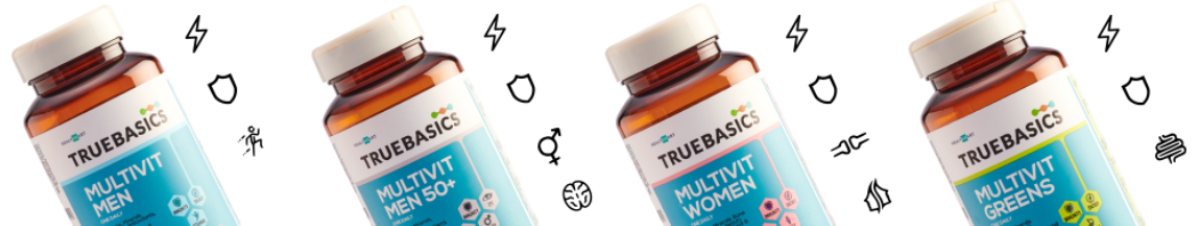
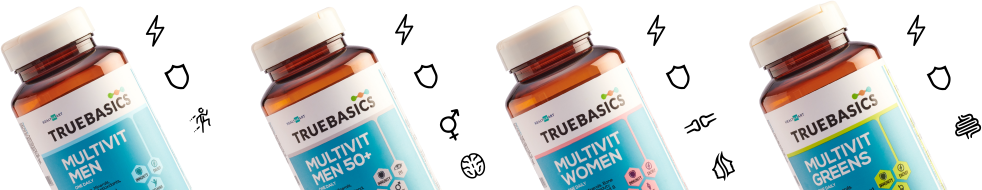
final feedback

diff --git a/best-multivitamins/css/style.css b/best-multivitamins/css/style.css
@@ -21,7 +21,7 @@ p{font-size: 20px;line-height: 26px;margin:0px;}
 /******************************* Common CSS *******************************/
 .headingSec{margin-bottom: 25px;}
 .headingSec h2{margin-bottom: 15px;}
-.ctaBtn{padding: 10px 28px;border-radius: 50px;color: #000;font-weight: bold;font-size: 20px;margin-top: 25px;display: inline-block;transition: 0.3s all ease-in-out;}
+.ctaBtn{background:#ff7300;padding: 10px 28px;border-radius: 50px;color: #000;font-weight: bold;font-size: 20px;margin-top: 25px;display: inline-block;transition: 0.3s all ease-in-out;}
 .pointersList{list-style: none;padding: 0px;margin:20px 0px;}
 .pointersList li{position: relative;padding-left: 25px;}
 .pointersList li{margin-bottom: 8px;}
@@ -66,36 +66,38 @@ button:focus{outline: none;}
 
 
 /******************************* First Section *******************************/
-.firstSection{background:#38e0ff;padding: 150px 0px 0px;position: relative;}
+.firstSection{background:#38e0ff;padding: 120px 0px 0px;position: relative;}
 .firstSection h2 span{font-family: "Nexa-Bold"}
 .tagLine{margin-bottom: 50px;position: relative;margin-top: 20px;}
 .tagLine:before{content: '';position: absolute;height: 1px;width: 60%;background:#000;bottom: -25px;left: 0;}
 .bottombgfirst{position: absolute;bottom: 100px;left:0; }
 .topbgfirst{position: absolute;top: 100px;right:0;}
-.bottomImg{margin-top: 80px;}
+.bottomImg{margin-top: 50px;}
 
 /******************************* Second Section *******************************/
-.secondSection{background:#53e3f5;position: relative;padding: 75px 0px;}
-.secondSection .ctaBtn{background:#fff;border:3px solid #fff;}
-.secondSection .ctaBtn:hover{background:#8bd3e6;text-decoration: none;color:#000;}
+.secondSection{background:#fff;position: relative;padding: 75px 0px;}
+.secondSection .ctaBtn{background:#ff7300;border:3px solid #ff7300;}
+.secondSection .ctaBtn:hover{background:#fff;text-decoration: none;color:#ff7300;}
 .slate2{position: absolute;bottom: 12%;right: 10%;}
 
 /******************************* Third Section *******************************/
 .thirdSection{background:#f4a6d7;position: relative;padding: 75px 0px;}
-.thirdSection .ctaBtn{background:#fff;border: 3px solid #fff;}
-.thirdSection .ctaBtn:hover{background:#f4a6d7;border: 3px solid #fff;color: #000;text-decoration: none;}
+.thirdSection .ctaBtn{background:#ff7300;border: 3px solid #ff7300;}
+.thirdSection .ctaBtn:hover{background:#fff;color: #ff7300;text-decoration: none;}
 .slate3{position: absolute;top: 3%;left: 4%;}
+.thirdSection .productList li:nth-child(3){width: 10%;}
 
 /******************************* Fourth Section *******************************/
 .fourthSection{background:#c1c5c7;position: relative;padding: 75px 0px;}
-.fourthSection .ctaBtn{background:#fff;border:3px solid #fff;}
-.fourthSection .ctaBtn:hover{background:#c1c6c8;text-decoration: none;color:#000;}
+.fourthSection .ctaBtn{background:#ff7300;border:3px solid #ff7300;}
+.fourthSection .ctaBtn:hover{background:#fff;text-decoration: none;color:#ff7300;}
 .slate4{position: absolute;top: 5%;right: 3%;}
+.fourthSection .productList li:nth-child(3){width: 10%;}
 
 /******************************* Fifth Section *******************************/
 .fifthSection{background:#c4d600;position: relative;padding: 75px 0px;}
-.fifthSection .ctaBtn{background:#fff;border: 3px solid #fff;}
-.fifthSection .ctaBtn:hover{background:#c4d600;border: 3px solid #fff;color: #000;text-decoration: none;}
+.fifthSection .ctaBtn{background:#ff7300;border: 3px solid #ff7300;}
+.fifthSection .ctaBtn:hover{background:#fff;color: #ff7300;text-decoration: none;}
 .slate5{position: absolute;bottom: 10%;left: 3%;}
 
 /******************************* Footer Section *******************************/
@@ -112,10 +114,14 @@ footer p{margin:0px;}
 }
 @media all and (max-width: 1440px) {
 	h1{font-size: 36px;line-height: 42px;color: #000;margin-top: 0px;font-weight:900;}
-  	h2{font-size: 28px;line-height: 32px;color: #000;}
-  	h3{font-size: 20px;line-height: 22px;color: #000;}
-  	p{font-size: 18px;line-height: 22px;margin:0px;}
-  	.ctaBtn{padding: 8px 24px;font-size: 18px;margin-top: 20px;}
+	h2{font-size: 28px;line-height: 32px;color: #000;}
+	h3{font-size: 20px;line-height: 22px;color: #000;}
+	p{font-size: 18px;line-height: 22px;margin:0px;}
+	.ctaBtn{padding: 8px 24px;font-size: 18px;margin-top: 20px;}
+  .firstSection{padding-top: 90px;}
+  .secImg{width: 70%;}
+  .secondSection, .thirdSection, .fourthSection, .fifthSection{padding: 40px 0px;}
+  .bottomImg{margin-top: 30px;}
 }
 @media all and (max-width: 1360px) {
 }
@@ -130,8 +136,9 @@ footer p{margin:0px;}
 @media all and (max-width: 769px) {
   .prodImg{width: 100%;}
 	.firstSection img{margin-bottom: 30px;}
+  .secImg{width: 100%;}
 	.searchBox{display: none;}
-  .productList li {width: 23%;}
+  .productList li, .fourthSection .productList li, .thirdSection .productList li {width: 23%;}
 	h1{font-size: 32px;line-height: 38px;color: #000;margin-top: 0px;font-weight:900;}
 	h2{font-size: 24px;line-height: 30px;color: #000;}
   	h3{font-size: 18px;line-height: 24px;color: #000;}

diff --git a/best-multivitamins-in-india/css/style.css b/best-multivitamins-in-india/css/style.css
@@ -25,11 +25,11 @@ p{font-size: 20px;line-height: 26px;margin:0px;}
 /******************************* Common CSS *******************************/
 .headingSec{margin-bottom: 25px;}
 .headingSec h2{margin-bottom: 15px;}
-.ctaBtn{padding: 10px 28px;border-radius: 50px;color: #000;font-weight: bold;font-size: 20px;margin-top: 25px;display: inline-block;}
+.ctaBtn{background:#ff7300;padding: 10px 28px;border-radius: 50px;color: #000;font-weight: bold;font-size: 20px;margin-top: 25px;display: inline-block;}
 .pointersList{list-style: none;padding: 0px;margin:20px 0px;}
-.pointersList li{position: relative;padding-left: 20px;}
+.pointersList li{position: relative;padding-left: 25px;}
 .pointersList li{margin-bottom: 8px;}
-.pointersList li:before{content: '';display: block;width: 6px;height: 6px;border-radius:50%;background: #515151;position: absolute;left: 0;top: 40%;transform: translateY(-50%);}
+.pointersList li:before{content: '';display: block;width: 15px;height: 1px;background: #515151;position: absolute;left: 0;top: 40%;transform: translateY(-50%);}
 .pointersList li:first-child{padding-left: 0px;}
 .pointersList li:first-child:before{display: none;}
 .cost{margin-top: 25px;position: relative;}
@@ -71,14 +71,14 @@ button:focus{outline: none;}
 
 
 /******************************* First Section *******************************/
-.firstSection{background:#38e0ff;padding: 150px 0px 0px;position: relative;}
+.firstSection{background:#38e0ff;padding: 120px 0px 0px;position: relative;}
 .firstSection h2{font-size: 34px;line-height: 40px;}
 .firstSection h2 span{font-family: "Nexa-Bold";}
 .tagLine{margin-bottom: 50px;position: relative;margin-top: 20px;}
 .tagLine:before{content: '';position: absolute;height: 1px;width: 60%;background:#000;bottom: -25px;left: 0;}
 .bottombgfirst{position: absolute;bottom: 100px;left:0; }
 .topbgfirst{position: absolute;top: 100px;right:0;}
-.bottomImg{margin-top: 80px;}
+.bottomImg{margin-top: 50px;}
 
 /******************************* Second Section *******************************/
 .secondSection{background:#fff;position: relative;padding: 75px 0px;}
@@ -148,13 +148,18 @@ footer p{margin:0px;}
 @media all and (max-width: 1440px) {
 	h1{font-size: 48px;line-height: 54px;}
   h2{font-size: 36px;line-height: 40px;}
-  h3{font-size: 28px;line-height: 32px;}
-  h4{font-size: 26px;line-height: 30px;}
+  h3{font-size: 26px;line-height: 32px;}
+  h4{font-size: 24px;line-height: 30px;}
   h5{font-size: 22px;line-height: 26px;}
   h6{font-size: 20px;line-height: 24px;}
   p{line-height: 24px;}
   .ctaBtn{padding: 8px 24px;font-size: 18px;margin-top: 20px;}
   .firstSection h2{font-size: 28px;line-height: 32px;}
+  .secImg{width: 70%;}
+  .fifthSection p{font-size: 13px;}
+  .firstSection{padding-top: 90px;}
+  .secondSection, .thirdSection, .fourthSection{padding: 40px 0px;}
+  .bottomImg{margin-top: 30px;}
 }
 @media all and (max-width: 1360px) {
 }
@@ -168,6 +173,7 @@ footer p{margin:0px;}
 }
 @media all and (max-width: 769px) {
   .firstSection img{margin-bottom: 30px;}
+  .secImg{width: 100%;}
   .firstSection h2{font-size: 24px;line-height: 30px;}
   .productHeading{margin-top: 20px;}
   .productHeadingnon{margin-top: 20px;}

diff --git a/best-multivitamins-in-india/index.html b/best-multivitamins-in-india/index.html
@@ -181,7 +181,7 @@
         <div class="container">
             <div class="row align-items-center justify-content-center">
                 <div class="col-md-6">
-                    <img src="images/bannerImg.png" alt="">
+                    <img src="images/bannerImg.png" class="secImg" alt="">
                 </div>
                 <div class="col-md-5">
                     <h2>Arm yourself with TRUEBASICS<sup>®</sup> Multivit and keep your <span>IMMUNITY</span> strong</h2>
@@ -191,7 +191,7 @@
             </div>
             <div class="row bottomImg justify-content-center">
                 <div class="col-md-12 text-center">
-                    <img src="images/bottom-medicines.png" alt="">
+                    <img src="images/bottom-medicines.png" class="secImg" alt="">
                 </div>
             </div>
         </div>

diff --git a/best-multivitamins/index.html b/best-multivitamins/index.html
@@ -207,7 +207,7 @@
       <div class="container">
           <div class="row align-items-center justify-content-center">
               <div class="col-md-6">
-                  <img src="images/bannerImg.png" alt="">
+                  <img src="images/bannerImg.png" class="secImg" alt="">
               </div>
               <div class="col-md-5">
                   <h2>Arm yourself with TRUEBASICS<sup>®</sup> Multivit and keep your <span>IMMUNITY</span> strong</h2>
@@ -217,7 +217,7 @@
           </div>
           <div class="row bottomImg justify-content-center">
               <div class="col-md-12 text-center">
-                  <img src="images/bottom-medicines.png" alt="">
+                <img src="images/bottom-medicines.png" class="secImg" alt="">
               </div>
           </div>
       </div>
